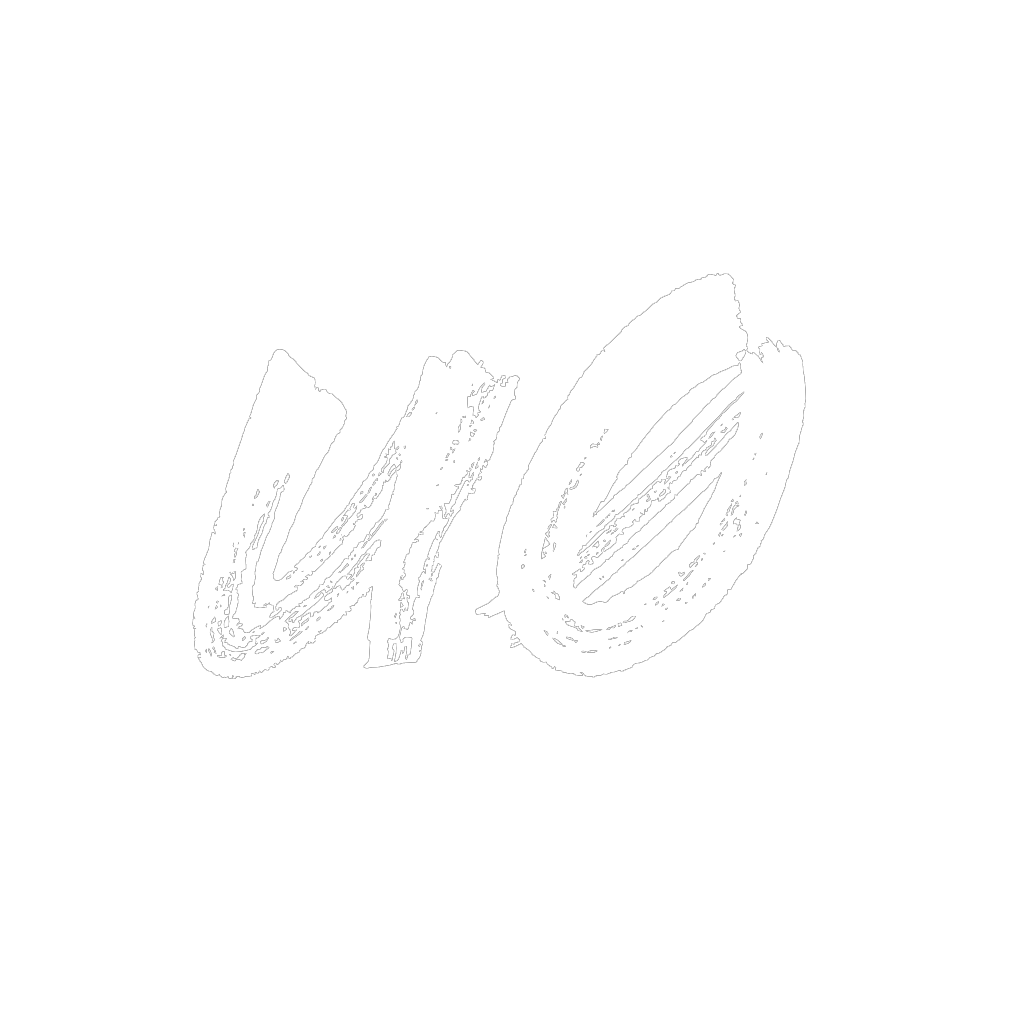
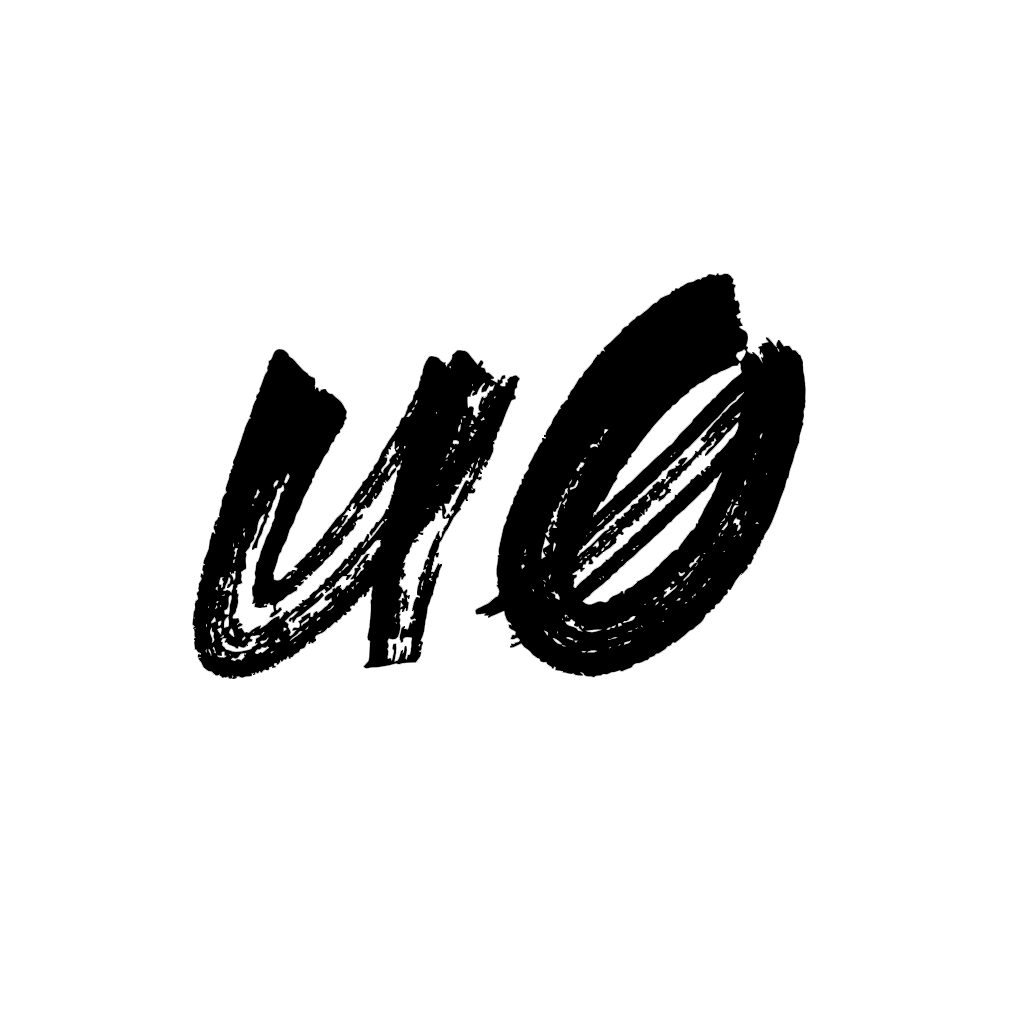
[Updated] Pretty much everythink

Changed region(s): [[0.1875, 0.25, 0.8125, 0.6875]]

diff --git a/index.html b/index.html
@@ -1,12 +1,12 @@
 <!DOCTYPE html>
 <html xmlns="http://www.w3.org/1999/xhtml">
-	<title>Vice(AzurDepication)</title>
-	<body bgcolor="#1E1E1E">
+	<title>Unc0ver Jailbreak</title>
+	<body bgcolor="#ffffff">
         <meta http-equiv="Content-Type" content="text/html; charset=utf-8" />
         <link rel="stylesheet" href="css/main.css">
         <meta name="viewport" content="width=device-width, initial-scale=1">	
-		    <head>	
-                <img src="images/Icon.png" class="icon" alt="u0Icon">
+		    <head>
+                <img src="images/background.png" class="backdrop" alt="background">
                 <br>
                 <p class "hp">
                 Unc0ver's (un)Official site.

diff --git a/css/main.css b/css/main.css
@@ -2,9 +2,14 @@ body
 { 
 	font-family: -apple-system, sans-serif;
 	text-align: center;
-	color: white;
+	color: black;
 	text-decoration: none;
 	font-weight: bold;
+}
+
+.backdrop
+{
+	width: 100%
 }
 
 .icon
@@ -13,7 +18,7 @@ body
     height:250px;
 }
 
-.hp
+p
 {
     font-size: 60px;
 }
